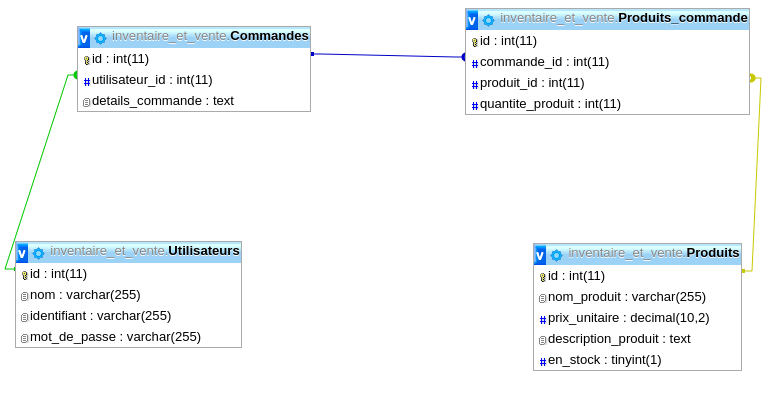
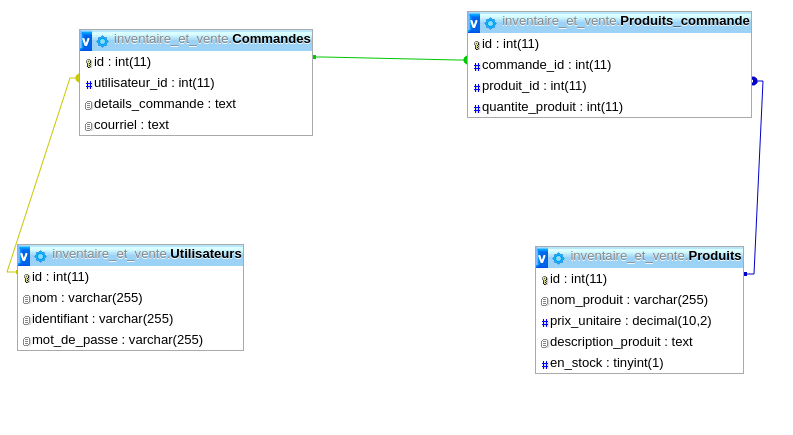
Changement dans le diagramme et exportation de la BDD

diff --git a/Vue/vueApropos.php b/Vue/vueApropos.php
@@ -2,7 +2,7 @@
 
 <?php ob_start(); ?>
 
-<table style="text-align: center;">
+<table>
     <tr>
         <td colspan="2">Yasser Soliman</td>	
     </tr>
@@ -11,6 +11,25 @@
     </tr>
     <tr>
         <td colspan="2">Hiver 2020, Collège Montmorency</td>
+    </tr>
+    <tr>
+        <td colspan="2">
+            <ul>
+                <li>L'application "L'inventaire de Yasser" permet de creer des commandes et d'ajouter des produits existants dans l'inventaire</li>
+                <li>La page d'accueil présente la liste de commandes crée et offre la possibilité d'en creer d'autres</li>
+                <ul>
+                    <li>Un utilisateur doit inclure sont courriel lors de la création d'une commande</li>
+                    <li>Il y a la gestion d'erreur lorsqu'un utilisateur entre un courriel</li>
+                </ul>
+                <li>En appuyant sur une commande il y a une liste de produit qui apparait</li>
+                <li>Il y a la possibilité d'ajouté des produits dans la liste de commande</li>
+                <li>Un utilisateur peut modifier ou supprimer un produit de la commande</li>
+                <ul>
+                    <li>Il y a la gestion d'erreur pour la quantité d'un produit. La valeur doit être un chiffre entier plus grand que 0.</li>
+                </ul>
+
+            </ul>
+        </td>
     </tr>
     <tr>
         <td>
